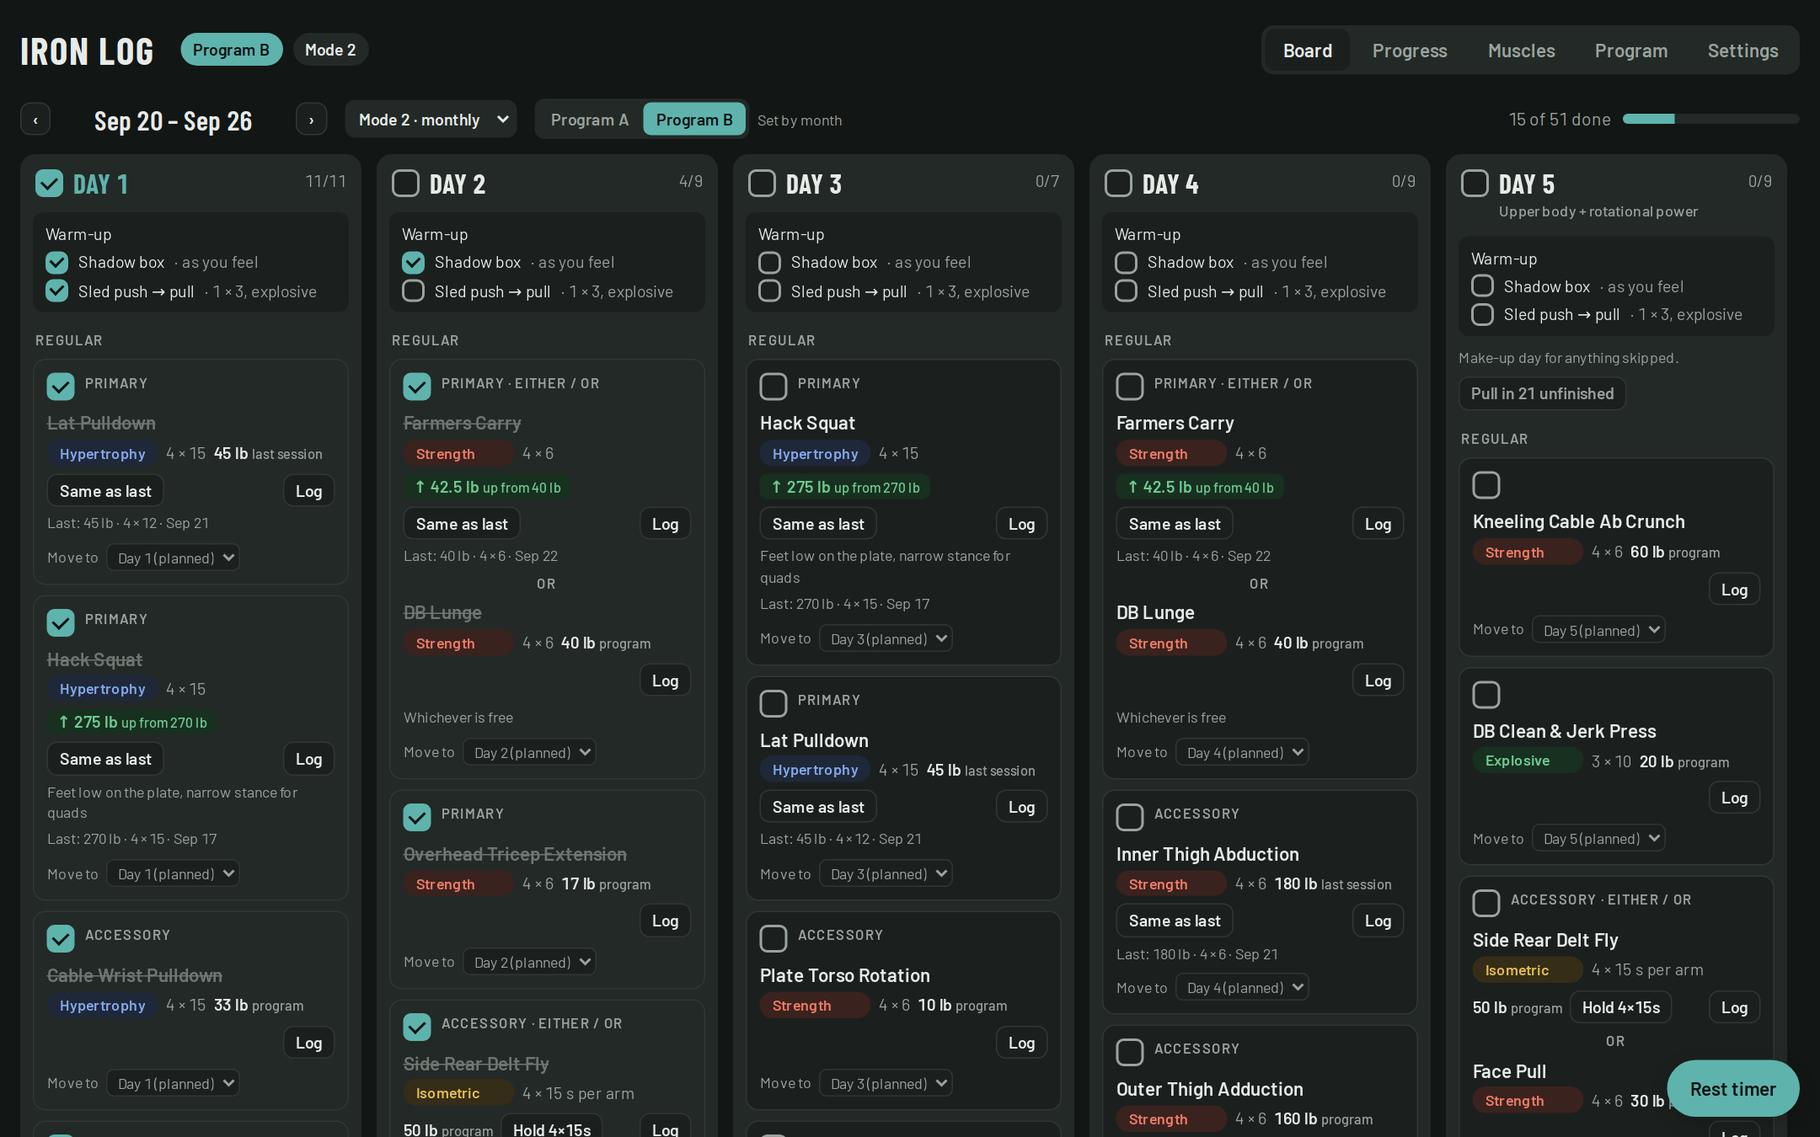
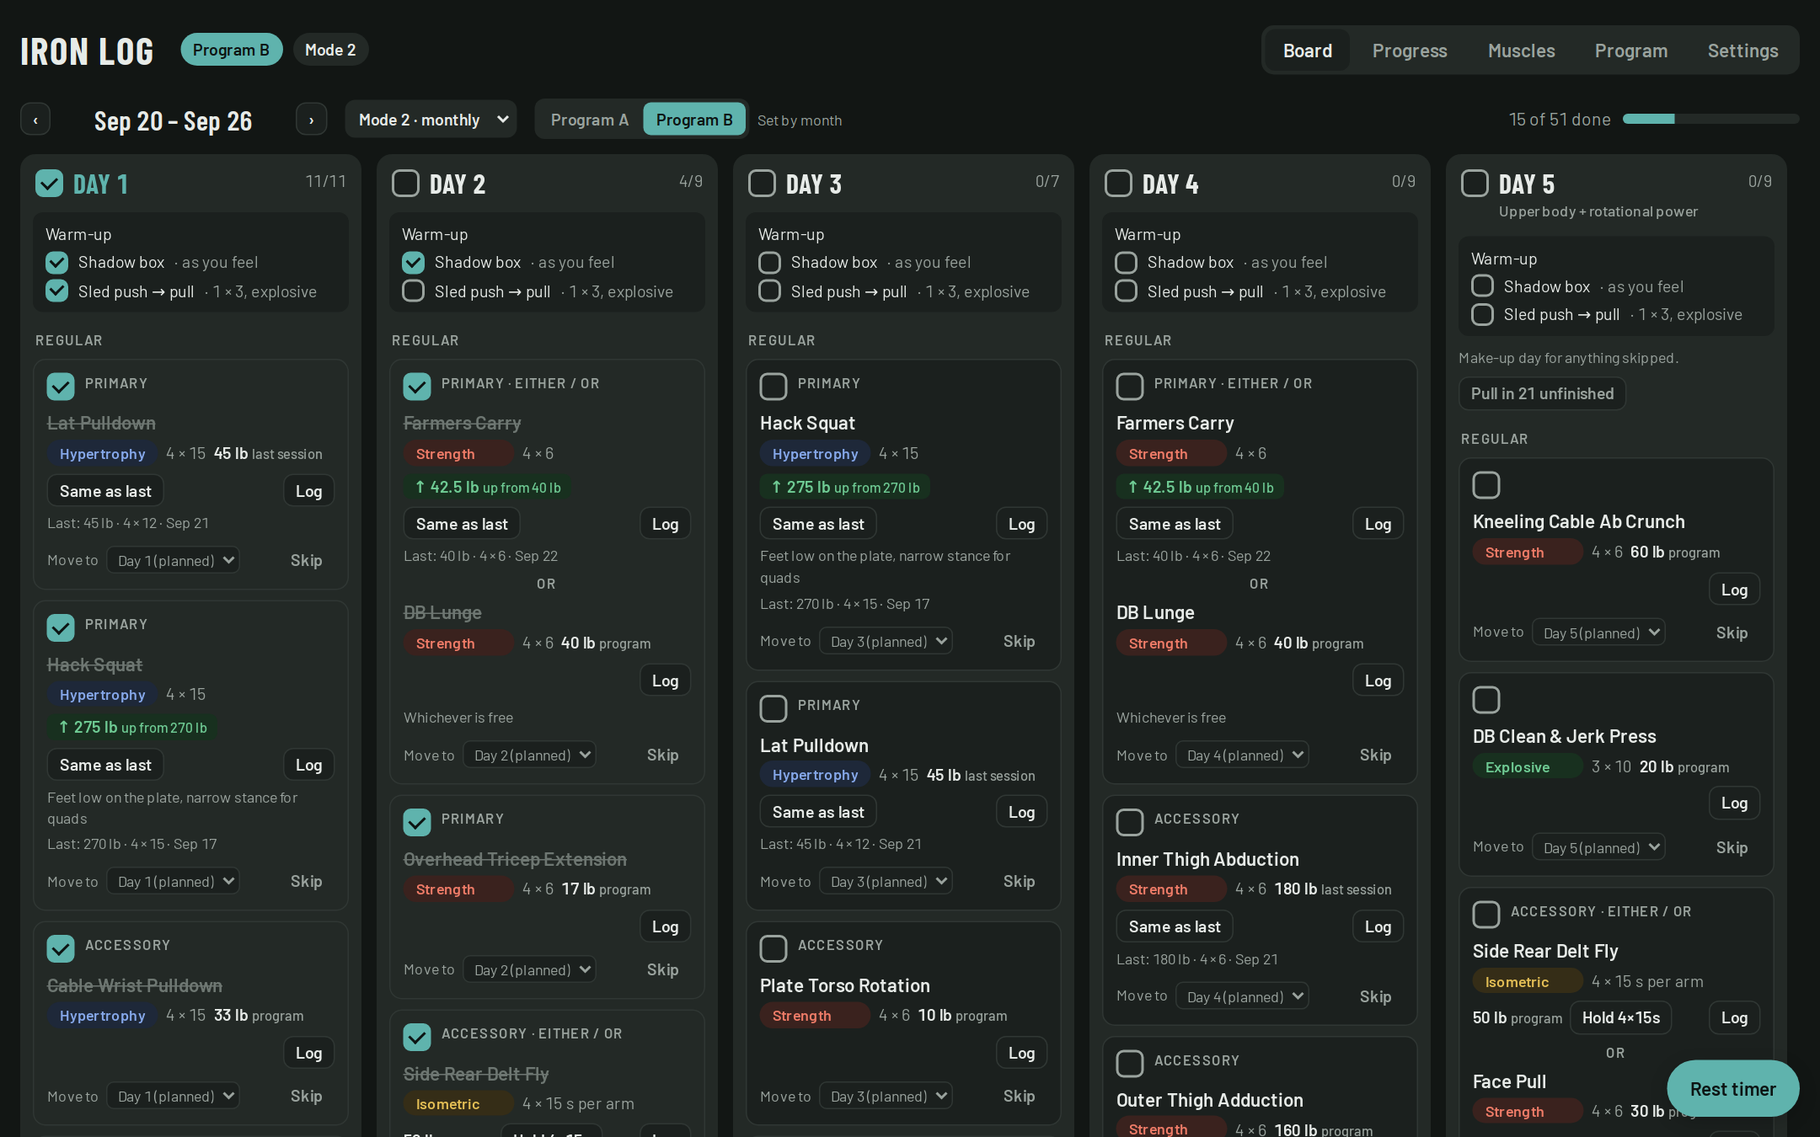
Add a Skip button to each exercise (#5)
* Add per-exercise Skip on the board

Skipped exercises drop out of week and day counts, the day check-off and the make-up pull; checking one off clears the skip. Exports show skipped status.

Claude-Session: https://claude.ai/code/session_017T4ZVk4Tbd8QT4JpjGQdKi

* Update README screenshots

---------

diff --git a/js/render.js b/js/render.js
@@ -22,7 +22,8 @@ function render(){
 function renderBoard(progKey, prog){
   const slots = slotsFor(prog);
   const cols = currentLayout(slots);
-  const total = slots.length, done = slots.filter(s=>week.done[s.id]).length;
+  const skippedN = slots.filter(s=>isSkipped(s)).length;
+  const total = slots.length - skippedN, done = slots.filter(s=>week.done[s.id] && !isSkipped(s)).length;
   const pct = total? Math.round(done/total*100):0;
   const end = addDays(weekStart,6);
   let h = '';
@@ -30,25 +31,25 @@ function renderBoard(progKey, prog){
   if(ymd(monday(new Date()))!==weekKey()) h+=`<button class="btn sm ghost" data-act="today">This week</button>`;
   h += `<label class="seg modesel" for="board-mode"><span class="sr">Mode</span><select id="board-mode" data-act="mode" aria-label="Program mode">${[[1,'Mode 1 · A only'],[2,'Mode 2 · monthly'],[3,'Mode 3 · 6 months']].map(([m,t])=>`<option value="${m}" ${cfg.mode===m?'selected':''}>${t}</option>`).join('')}</select></label>`;
   if(cfg.mode===2){ const auto=programFor(weekStart); h += `<div class="seg" role="group" aria-label="Program this week">${['A','B'].map(k=>`<button class="${k===progKey?'on':''}" data-act="setprog" data-p="${k}" aria-pressed="${k===progKey}">Program ${k}</button>`).join('')}</div><span class="saveflag">${progKey===auto?'Set by month':`Switched · month default is ${auto}`}</span>`; }
-  h += `</div><div class="progress"><span>${done} of ${total} done</span><div class="bar"><i style="width:${pct}%"></i></div></div></div>`;
+  h += `</div><div class="progress"><span>${done} of ${total} done${skippedN?` · ${skippedN} skipped`:''}</span><div class="bar"><i style="width:${pct}%"></i></div></div></div>`;
   if(!PROGRAMS[progKey]) h += `<div class="notice">Program ${progKey} is scheduled this week but hasn't been added yet, so Program A is shown.</div>`;
   if(!Object.keys(cfg.rm).length && !hideTip()) h += `<div class="notice tip"><span>Targets use your last logged weight. Add a 1RM (in Settings or when you log a set) to get phase-based targets instead.</span><button class="btn sm ghost" data-act="hidetip">Got it</button></div>`;
   const since = daysSinceBackup(); const anyLogs = Object.values(logs).some(l=>l&&l.length);
   if(mcp && anyLogs && !backupSnoozed && (since==null || since>=7)) h += `<div class="notice tip"><span>${since==null?'Your training data hasn\u2019t been backed up to GitHub yet.':`Last GitHub backup was ${since} days ago.`}</span><span><button class="btn sm" data-act="backup" ${backupBusy?'disabled':''}>${backupBusy?'Backing up…':'Back up now'}</button> <button class="btn sm ghost" data-act="snooze">Later</button></span></div>`;
   if(storeMode==='local' && !hideTip('hidelocal')) h += `<div class="notice tip"><span>${window.claude ? 'Saving on this device only. Open the published page on claude.ai to keep your log everywhere.' : 'Your data is saved in this browser only. Use Export on the Progress tab to back it up.'}</span><button class="btn sm ghost" data-act="hidetip" data-k="hidelocal">Got it</button></div>`;
-  if(mDay==null){ mDay = 1; for(let d=1; d<=6; d++){ const l=cols[d]; if(l.some(s=>!week.done[s.id])){ mDay=d; break; } } }
-  h += `<div class="daytabs" role="tablist" aria-label="Day">${[1,2,3,4,5,6].map(d=>{ const l=cols[d], n=l.filter(s=>week.done[s.id]).length; const full=l.length&&n===l.length; return `<button role="tab" data-act="mday" data-day="${d}" aria-selected="${d===mDay}" class="${full?'full':''}"><b>D${d}</b><span>${full?'✓':`${n}/${l.length}`}</span></button>`; }).join('')}</div>`;
+  if(mDay==null){ mDay = 1; for(let d=1; d<=6; d++){ const l=cols[d]; if(l.some(s=>!week.done[s.id] && !isSkipped(s))){ mDay=d; break; } } }
+  h += `<div class="daytabs" role="tablist" aria-label="Day">${[1,2,3,4,5,6].map(d=>{ const l=cols[d].filter(s=>!isSkipped(s)), n=l.filter(s=>week.done[s.id]).length; const full=l.length&&n===l.length; return `<button role="tab" data-act="mday" data-day="${d}" aria-selected="${d===mDay}" class="${full?'full':''}"><b>D${d}</b><span>${full?'✓':`${n}/${l.length}`}</span></button>`; }).join('')}</div>`;
   h += `<div class="board">`;
   for(let d=1; d<=6; d++){
     const dayDef = prog.days[d-1];
     const list = cols[d];
-    const dn = list.filter(s=>week.done[s.id]).length;
-    const all = list.length>0 && dn===list.length;
-    h += `<section class="col${all?' complete':''}${d===mDay?' sel':''}" data-day="${d}"><div class="colhead"><input type="checkbox" class="chk" id="day-${d}" data-act="day" data-day="${d}" ${all?'checked':''} aria-label="Mark all of Day ${d} done"><div><h3>${dayDef.title}</h3>${dayDef.sub?`<div class="sub">${esc(dayDef.sub)}</div>`:''}</div><span class="count">${dn}/${list.length}</span></div>`;
+    const act = list.filter(s=>!isSkipped(s)); const dn = act.filter(s=>week.done[s.id]).length;
+    const all = act.length>0 && dn===act.length;
+    h += `<section class="col${all?' complete':''}${d===mDay?' sel':''}" data-day="${d}"><div class="colhead"><input type="checkbox" class="chk" id="day-${d}" data-act="day" data-day="${d}" ${all?'checked':''} aria-label="Mark all of Day ${d} done"><div><h3>${dayDef.title}</h3>${dayDef.sub?`<div class="sub">${esc(dayDef.sub)}</div>`:''}</div><span class="count">${dn}/${act.length}</span></div>`;
     const w = week.warm[d]||{};
     h += `<div class="warm"><span class="tag">Warm-up</span>${WARMUP.map(x=>`<label><input type="checkbox" class="chk" id="warm-${d}-${x.id}" data-act="warm" data-day="${d}" data-w="${x.id}" ${w[x.id]?'checked':''}>${x.id==='sled'&&prog.warm?prog.warm:x.n} <span class="rx">· ${x.rx}</span></label>`).join('')}</div>`;
     if(dayDef.makeup){
-      const pending = slots.filter(s=>s.day<5 && (week.moved[s.id]||s.day)<5 && !week.done[s.id]).length;
+      const pending = slots.filter(s=>s.day<5 && (week.moved[s.id]||s.day)<5 && !week.done[s.id] && !isSkipped(s)).length;
       h += `<div class="makeup">Make-up day for anything skipped. ${pending?`<button class="btn sm" data-act="pull">Pull in ${pending} unfinished</button>`:''}</div>`;
     }
     let lastSec = null;
@@ -60,12 +61,13 @@ function renderBoard(progKey, prog){
 }
 
 function renderCard(s, curDay){
-  const done = !!week.done[s.id];
+  const done = !!week.done[s.id]; const sk = isSkipped(s);
   const label = s.type==='superset' ? 'Superset' : s.type==='either' ? 'Either / or' : '';
-  let h = `<article class="card${done?' done':''}" draggable="true" data-slot="${s.id}">`;
+  let h = `<article class="card${done?' done':''}${sk?' skipped':''}" draggable="true" data-slot="${s.id}">`;
   h += `<div class="row1"><input type="checkbox" class="chk" id="chk-${s.id}" data-act="check" data-slot="${s.id}" ${done?'checked':''} aria-label="Mark done"><div style="flex:1;display:flex;flex-direction:column;gap:2px">`;
   if(label || s.tier) h += `<span class="tag">${[s.tier,label].filter(Boolean).join(' · ')}</span>`;
   if(s.day!==curDay) h += `<span class="moved">From Day ${s.day}</span>`;
+  if(sk) h += `<span class="skiptag">Skipped this week</span>`;
   h += `</div></div>`;
   s.items.forEach((it,idx)=>{
     if(idx>0 && s.type==='either') h += `<div class="or">or</div>`;
@@ -84,7 +86,7 @@ function renderCard(s, curDay){
   });
   if(s.note) h += `<div class="note">${esc(s.note)}</div>`;
   const cur = week.moved[s.id]||s.day;
-  h += `<div class="cardfoot"><label for="mv-${s.id}">Move to</label><select id="mv-${s.id}" data-act="move" data-slot="${s.id}">${[1,2,3,4,5,6].map(d=>`<option value="${d}" ${d===cur?'selected':''}>Day ${d}${d===s.day?' (planned)':''}</option>`).join('')}</select></div>`;
+  h += `<div class="cardfoot"><label for="mv-${s.id}">Move to</label><select id="mv-${s.id}" data-act="move" data-slot="${s.id}">${[1,2,3,4,5,6].map(d=>`<option value="${d}" ${d===cur?'selected':''}>Day ${d}${d===s.day?' (planned)':''}</option>`).join('')}</select><button class="btn sm ghost skipbtn" data-act="skip" data-slot="${s.id}" aria-pressed="${sk}">${sk?'Undo skip':'Skip'}</button></div>`;
   return h + `</article>`;
 }
 
@@ -136,9 +138,10 @@ function weekSummary(key, w){
   const start = parse(key); const pk = (cfg.mode===2 && (w.prog==='A'||w.prog==='B')) ? w.prog : programFor(start);
   const prog = PROGRAMS[pk]||PROGRAMS.A; const slots = slotsFor(prog);
   const cols = {1:[],2:[],3:[],4:[],5:[],6:[]}; slots.forEach(s=>cols[(w.moved&&w.moved[s.id])||s.day].push(s));
-  const done = w.done||{};
-  const days = [1,2,3,4,5,6].map(d=>{ const l=cols[d]; const n=l.filter(s=>done[s.id]).length; return l.length ? (n===l.length ? 2 : n>0 ? 1 : 0) : 0; });
-  return {key, start, pk, days, full: days.filter(x=>x===2).length, ex: slots.filter(s=>done[s.id]).length, total: slots.length};
+  const done = w.done||{}; const skip = s => isSkipped(s, w);
+  const days = [1,2,3,4,5,6].map(d=>{ const l=cols[d].filter(s=>!skip(s)); const n=l.filter(s=>done[s.id]).length; return l.length ? (n===l.length ? 2 : n>0 ? 1 : 0) : 0; });
+  const skipped = slots.filter(skip).length;
+  return {key, start, pk, days, full: days.filter(x=>x===2).length, ex: slots.filter(s=>done[s.id] && !skip(s)).length, total: slots.length - skipped, skipped};
 }
 function renderHistory(){
   const weeks = {...(weekHist||{})}; weeks[weekKey()] = week; // live view of the shown week

diff --git a/js/events.js b/js/events.js
@@ -3,7 +3,7 @@ let downOnScrim = false;
 document.addEventListener('pointerdown', e=>{ downOnScrim = !!(e.target.classList && e.target.classList.contains('scrim')); }, true);
 function blocked(){ if(isReady()) return false; flag('Still loading your data…'); render(); return true; }
 let backupSnoozed = false;
-const MUTATE = new Set(['backup','bkrepo','tagsave','tagreset','repeat','rests','edsub','edup','eddown','eddel','edreset','edadd','edit','check','day','warm','move','phase','mode','m3s','m3f','m2e','pct','rxo','rm','setprog','pull','dellog','log']);
+const MUTATE = new Set(['skip','backup','bkrepo','tagsave','tagreset','repeat','rests','edsub','edup','eddown','eddel','edreset','edadd','edit','check','day','warm','move','phase','mode','m3s','m3f','m2e','pct','rxo','rm','setprog','pull','dellog','log']);
 document.addEventListener('click', e=>{
   const t = e.target.closest('[data-act]'); if(!t) return;
   const a = t.dataset.act;
@@ -40,7 +40,8 @@ document.addEventListener('click', e=>{
   if(a==='hidetip'){ try{ localStorage.setItem('ironlog:'+(t.dataset.k||'hidetip'),'1'); }catch(e){} render(); return; }
   if(a==='mday'){ mDay=Number(t.dataset.day); render(); window.scrollTo({top:0}); return; }
   if(a==='setprog'){ const k=t.dataset.p; if(k===programFor(weekStart)) week.prog=null; else week.prog=k; saveWeek(); render(); }
-  if(a==='pull'){ const prog=PROGRAMS[activeProgKey()]||PROGRAMS.A; slotsFor(prog).forEach(s=>{ if(s.day<5 && (week.moved[s.id]||s.day)<5 && !week.done[s.id]) week.moved[s.id]=5; }); saveWeek(); render(); }
+  if(a==='pull'){ const prog=PROGRAMS[activeProgKey()]||PROGRAMS.A; slotsFor(prog).forEach(s=>{ if(s.day<5 && (week.moved[s.id]||s.day)<5 && !week.done[s.id] && !isSkipped(s)) week.moved[s.id]=5; }); saveWeek(); render(); }
+  if(a==='skip'){ const id=t.dataset.slot; week.skipped = week.skipped||{}; if(week.skipped[id]) delete week.skipped[id]; else { week.skipped[id]=true; delete week.done[id]; } saveWeek(); render(); flag(week.skipped[id]?'Skipped for this week':'Skip undone'); return; }
   if(a==='dellog'){ if(t.dataset.armed!=='1'){ t.dataset.armed='1'; t.textContent='Delete?'; setTimeout(()=>{ if(t.isConnected){ t.dataset.armed=''; t.textContent='✕'; } },3000); return; } const ex=t.dataset.ex, i=Number(t.dataset.i); logs[ex].splice(i,1); saveLog(ex); render(); openDetail(ex); }
 });
 document.querySelectorAll('.tabs button').forEach(b=>b.addEventListener('click',()=>{ tab=b.dataset.tab; if(tab==='progress') { weekHist=null; } render(); }));
@@ -48,8 +49,8 @@ document.querySelectorAll('.tabs button').forEach(b=>b.addEventListener('click',
 document.addEventListener('change', e=>{
   const t = e.target; const a = t.dataset && t.dataset.act; if(!a) return;
   if(MUTATE.has(a) && blocked()) return;
-  if(a==='check'){ if(t.checked) week.done[t.dataset.slot]=true; else delete week.done[t.dataset.slot]; saveWeek(); render(); }
-  if(a==='day'){ const prog=PROGRAMS[activeProgKey()]||PROGRAMS.A; const d=Number(t.dataset.day); currentLayout(slotsFor(prog))[d].forEach(s=>{ if(t.checked) week.done[s.id]=true; else delete week.done[s.id]; }); saveWeek(); render(); }
+  if(a==='check'){ if(t.checked){ week.done[t.dataset.slot]=true; if(week.skipped) delete week.skipped[t.dataset.slot]; } else delete week.done[t.dataset.slot]; saveWeek(); render(); }
+  if(a==='day'){ const prog=PROGRAMS[activeProgKey()]||PROGRAMS.A; const d=Number(t.dataset.day); currentLayout(slotsFor(prog))[d].forEach(s=>{ if(isSkipped(s)) return; if(t.checked) week.done[s.id]=true; else delete week.done[s.id]; }); saveWeek(); render(); }
   if(a==='warm'){ const d=t.dataset.day; week.warm[d]=week.warm[d]||{}; week.warm[d][t.dataset.w]=t.checked; saveWeek(); }
   if(a==='move'){ moveSlot(t.dataset.slot, Number(t.value)); }
   if(a==='phase'){ week.ph[`${t.dataset.slot}:${t.dataset.idx}`]=t.value; saveWeek(); render(); }
@@ -91,7 +92,7 @@ document.addEventListener('submit', e=>{
   if(document.getElementById('f-def').checked && ph){ cfg.phDef[key]=ph; delete week.ph[key]; saveCfg(); }
   const rmv=document.getElementById('f-rm').value; const rmn=Number(rmv);
   if(rmv==='' ? cfg.rm[it.ex]!=null : (rmn>0 && rmn!==cfg.rm[it.ex])){ if(rmv==='') delete cfg.rm[it.ex]; else cfg.rm[it.ex]=rmn; saveCfg(); }
-  if(document.getElementById('f-done').checked) week.done[slotId]=true;
+  if(document.getElementById('f-done').checked){ week.done[slotId]=true; if(week.skipped) delete week.skipped[slotId]; }
   saveWeek(); closeModal(); render();
 });
 document.addEventListener('keydown', e=>{ if(e.key==='Escape') closeModal(); });

diff --git a/js/export.js b/js/export.js
@@ -56,12 +56,12 @@ function buildOverallWorkbook(X, weeks){
   Object.values(mv).sort((a,b)=> a.k===b.k ? (b.p+b.s/2)-(a.p+a.s/2) : a.k.localeCompare(b.k)).forEach(r=> mus.push([r.k, MUSCLES[r.m] ? MUSCLES[r.m].n : r.m, r.p, r.s, r.p + r.s/2]));
   X.utils.book_append_sheet(wb, sheet(X, mus, [12,24,13,15,14]), 'Muscles');
   // Weeks
-  const wk = [['Week of','Program','Days complete','Exercises done','Exercises planned','% done','Sessions logged']];
+  const wk = [['Week of','Program','Days complete','Exercises done','Exercises planned','Skipped','% done','Sessions logged']];
   Object.keys(weeks).filter(k=>/^\d{4}-\d{2}-\d{2}$/.test(k)).sort().forEach(k=>{
     const r = weekSummary(k, weeks[k]); const n = Object.values(logs).reduce((a,L)=>a+L.filter(e=>(e.wk||weekOfDate(e.d))===k).length,0);
-    if(r.ex || n) wk.push([k, r.pk, r.full, r.ex, r.total, r.total?Math.round(r.ex/r.total*100):0, n]);
+    if(r.ex || n || r.skipped) wk.push([k, r.pk, r.full, r.ex, r.total, r.skipped, r.total?Math.round(r.ex/r.total*100):0, n]);
   });
-  X.utils.book_append_sheet(wb, sheet(X, wk, [12,9,14,15,17,8,15]), 'Weeks');
+  X.utils.book_append_sheet(wb, sheet(X, wk, [12,9,14,15,17,9,8,15]), 'Weeks');
   // Settings
   const st = [['Setting','Value'], ['Mode', cfg.mode], ['Rest between sets (s)', cfg.rest??90]];
   PH_KEYS.forEach(p=> st.push([`${PHASES[p].label} % of 1RM`, cfg.pct[p]??PHASES[p].pct]));
@@ -77,13 +77,13 @@ function buildWeekWorkbook(X, key, w){
   const prog = PROGRAMS[r.pk]||PROGRAMS.A; const slots = slotsFor(prog);
   const n = sessionRows(e=>(e.wk||weekOfDate(e.d))===key);
   X.utils.book_append_sheet(wb, sheet(X, [
-    ['Week of', key], ['Program', r.pk], ['Days complete', `${r.full} of 6`], ['Exercises done', `${r.ex} of ${r.total}`], ['Sessions logged', n.length-1]
+    ['Week of', key], ['Program', r.pk], ['Days complete', `${r.full} of 6`], ['Exercises done', `${r.ex} of ${r.total}`], ['Skipped', r.skipped], ['Sessions logged', n.length-1]
   ], [18,14]), 'Summary');
   const plan = [['Planned day','Done on day','Section','Tier','Type','Exercise','Phase','Sets × reps','Program weight (lb)','Done']];
   slots.forEach(s=> s.items.forEach((it,idx)=>{
     const ph = (w.ph&&w.ph[`${s.id}:${idx}`]) ?? cfg.phDef[`${s.id}:${idx}`] ?? it.ph ?? null;
     const moved = w.moved && w.moved[s.id];
-    plan.push([s.day, moved||s.day, s.sec||'', s.tier||'', s.type==='single'?'':s.type, exInfo(it.ex).n, phaseLabel(ph), rxOf(it, ph), it.w??(it.bw?'BW':''), (w.done&&w.done[s.id])?'Yes':'No']);
+    plan.push([s.day, moved||s.day, s.sec||'', s.tier||'', s.type==='single'?'':s.type, exInfo(it.ex).n, phaseLabel(ph), rxOf(it, ph), it.w??(it.bw?'BW':''), (w.skipped&&w.skipped[s.id])?'Skipped':(w.done&&w.done[s.id])?'Yes':'No']);
   }));
   X.utils.book_append_sheet(wb, sheet(X, plan, [11,11,11,10,9,34,13,16,18,6]), 'Plan');
   X.utils.book_append_sheet(wb, sheet(X, n, SESSION_COLS), 'Logged');
@@ -113,7 +113,7 @@ async function initBackup(){
 }
 const backupCfg = () => ({repo:'jacgit18/iron-log-data', branch:'main', hashes:{}, ...(cfg.backup||{})});
 function hashStr(s){ let h = 2166136261; for(let i=0;i<s.length;i++){ h ^= s.charCodeAt(i); h = Math.imul(h, 16777619); } return (h>>>0).toString(36); }
-function weekFingerprint(key, w){ const L = Object.keys(logs).sort().map(id=>[id, (logs[id]||[]).filter(e=>(e.wk||weekOfDate(e.d))===key)]); return hashStr(JSON.stringify([w.done, w.moved, w.ph, w.prog, L, PROGRAMS[weekSummary(key,w).pk]])); }
+function weekFingerprint(key, w){ const L = Object.keys(logs).sort().map(id=>[id, (logs[id]||[]).filter(e=>(e.wk||weekOfDate(e.d))===key)]); return hashStr(JSON.stringify([w.done, w.skipped, w.moved, w.ph, w.prog, L, PROGRAMS[weekSummary(key,w).pk]])); }
 let backupBusy = false, backupMsg = null;
 function backupError(e){
   const c = e && e.code;

diff --git a/js/state.js b/js/state.js
@@ -66,7 +66,7 @@ function subscribeWeek(){
   week = normWeek(null); ready.week = false; let first = true;
   unsubWeek = db.doc('weeks/'+key).onSnapshot(s=>{ if(key!==weekKey()) return; if(s.metadata.hasPendingWrites) return; week = normWeek(s.exists? s.data(): null); ready.week = true; if(first){ first = false; mDay = null; } render(); }, ()=>flag('Couldn’t load this week. Reload the page.'));
 }
-const normWeek = w => ({prog:(w&&w.prog)||null, done:{...(w&&w.done)}, moved:{...(w&&w.moved)}, ph:{...(w&&w.ph)}, warm:JSON.parse(JSON.stringify((w&&w.warm)||{}))});
+const normWeek = w => ({prog:(w&&w.prog)||null, done:{...(w&&w.done)}, skipped:{...(w&&w.skipped)}, moved:{...(w&&w.moved)}, ph:{...(w&&w.ph)}, warm:JSON.parse(JSON.stringify((w&&w.warm)||{}))});
 
 async function init(){
   render();
@@ -121,6 +121,7 @@ function baseTargetOf(item, ph){
 }
 const lastLog = (exId, ph) => { const l=(logs[exId]||[]).filter(e=>ph===undefined || (e.ph||null)===(ph||null)); return l.length? l[l.length-1] : null; };
 function describe(e){ if(!e) return ''; const load = e.w!=null && e.w!=='' ? `${e.w} lb` : 'BW'; const vol = e.sec? `${e.s||'?'} × ${e.sec}s` : `${e.s||'?'} × ${e.r||'?'}`; return `${load} · ${vol}`; }
+const isSkipped = (s, w=week) => !!(w.skipped && w.skipped[s.id]);
 function currentLayout(slots){
   const cols = {1:[],2:[],3:[],4:[],5:[],6:[]};
   slots.forEach(s=>{ const d = week.moved[s.id] || s.day; cols[d].push(s); });

diff --git a/styles.css b/styles.css
@@ -155,6 +155,11 @@ body.timing{padding-bottom:130px}
 .card[draggable="true"]{cursor:grab}
 .card.dragging{opacity:.4}
 .card.done{background:transparent;box-shadow:none}
+.card.skipped{background:transparent;box-shadow:none;border-style:dashed}
+.card.skipped .ex,.card.skipped .row1 .tag{opacity:.45}
+.card.skipped .exname{text-decoration:line-through;text-decoration-style:dashed}
+.skiptag{font-size:11px;font-weight:700;text-transform:uppercase;letter-spacing:.06em;color:var(--iso)}
+.skipbtn{margin-left:auto}
 .card.done .exname{color:var(--done);text-decoration:line-through;text-decoration-thickness:1px}
 .card .row1{display:flex;gap:8px;align-items:flex-start}
 .card .tag,.edrow .tag{font-size:11px;color:var(--muted);text-transform:uppercase;letter-spacing:.06em;font-weight:600}

diff --git a/js/timers.js b/js/timers.js
@@ -44,7 +44,7 @@ function holdPlan(slot, idx){
 function addEntry(slot, idx, entry, {check}={}){
   const it = slot.items[idx]; const arr = logs[it.ex] = [...(logs[it.ex]||[]), JSON.parse(JSON.stringify(entry))];
   arr.sort((a,b)=>a.d.localeCompare(b.d)); saveLog(it.ex);
-  if(check) week.done[slot.id]=true;
+  if(check){ week.done[slot.id]=true; if(week.skipped) delete week.skipped[slot.id]; }
   saveWeek();
 }
 function quickLog(slotId, idx){

diff --git a/README.md b/README.md
@@ -45,7 +45,7 @@ It's plain HTML, CSS and JavaScript. There is no build step, no framework and no
 
 ## Features
 
-- **Weekly board.** One column per training day (Sunday to Saturday week). You can check off exercises one at a time or a whole day at once. When equipment is taken, drag a card to another day (or use "Move to" on a phone). Day 5 is a make-up day that can pull in anything left unfinished.
+- **Weekly board.** One column per training day (Sunday to Saturday week). You can check off exercises one at a time or a whole day at once. When equipment is taken, drag a card to another day (or use "Move to" on a phone). Day 5 is a make-up day that can pull in anything left unfinished. **Skip** takes an exercise out of this week's counts without deleting it, and checking it off later undoes the skip.
 - **Program rotation.** There are three modes:
   1. Program A only.
   2. A and B alternate by month (even and odd months), and you can switch any single week by hand.
